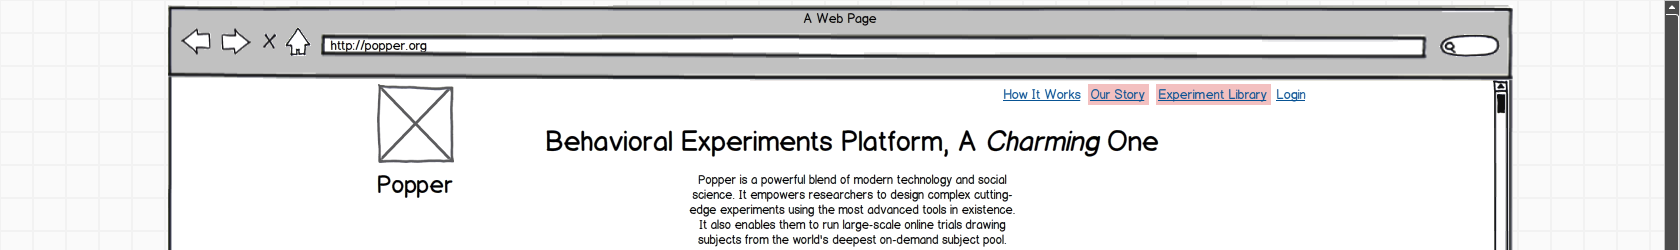
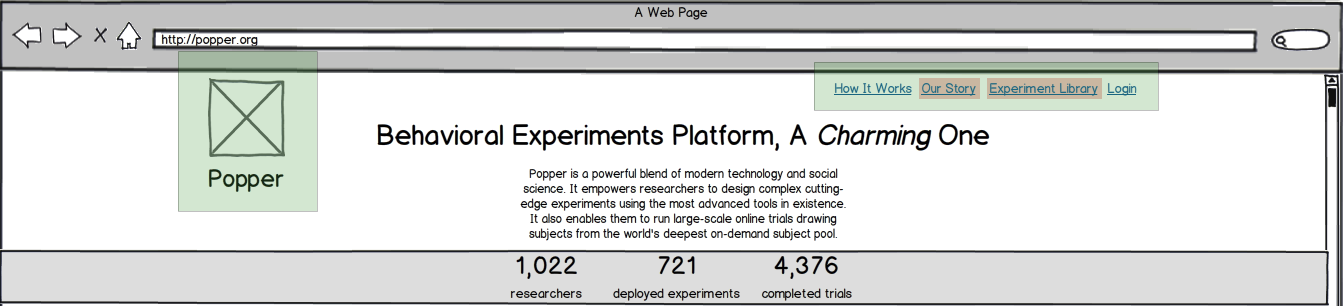
log in and sign up diagram

diff --git a/popper_functional_specs.md b/popper_functional_specs.md
@@ -44,43 +44,54 @@ The overall look of the **Landing Page** should be classic yet modern. Since the
 
 The **Landing Page** consists of six components: 
 
-1. The Header
-2. The Hook
-3. Statistics
-4. The Features List
-5. Sign Up
+1. Header (including Accounts)
+2. Features
+3. Sign Up
+4. Footer
 
-###1. The Header
+###1. Header
 
-The Header contains the Popper Logo and the Navigation Bar. 
+The Header contains the Logo, Navigation Bar (where we will cover user Accounts), Overview, and Usage Statistics. 
 
 ![Image](https://github.com/liscovich/functional-specs/blob/master/images/header.png?raw=true)
 
 ####Popper Logo
 
-The Popper Logo contains the name "Popper" accompanying a stylized likeness of Karl Popper, the philosopher after whom the product is named. The ideal portrait for this logo is available [here](http://en.wikipedia.org/wiki/File:Karl_Popper.jpg) in the public domain from Wiki Commons. 
+![Image](https://github.com/liscovich/functional-specs/blob/master/images/lplogo.png?raw=true)
 
-![Image](http://upload.wikimedia.org/wikipedia/commons/4/43/Karl_Popper.jpg)
+The Popper Logo contains the name "Popper" accompanying a stylized likeness of the philosopher Karl Popper. The ideal portrait for this logo is available [here](http://en.wikipedia.org/wiki/File:Karl_Popper.jpg) in the public domain from Wiki Commons. 
 
-We would like to include Karl Popper's likeness to emphasize that the name "Popper" does not refer to drugs or the action of "popping". The logo should be designed to stand out well against both the light background of the Researcher Website and the dark background of Unity3D, a core component of the Popper SDK. 
+<center>
+	<IMG SRC="http://upload.wikimedia.org/wikipedia/commons/4/43/Karl_Popper.jpg" WIDTH="10%" ALT="POPPER_PHOTO" BORDER="2.5">
+	</center>
+
+We would like to include Karl Popper's likeness to clarify the origin of the name "Popper" and dissociate the name from drugs or the action of "popping". The logo should be designed to stand out well against both the light background of the Researcher Website and the dark background of Unity3D, a core component of the Popper SDK. 
 
 The font of the logo should be classical and convey both authority and legitimacy, much like the logos of universities and research software.
 
-![Image](http://upload.wikimedia.org/wikipedia/commons/9/99/Harvard_University_Logo.PNG)
+<center>
+	![Image](http://upload.wikimedia.org/wikipedia/commons/9/99/Harvard_University_Logo.PNG)
+</center>
 
-![Image](http://www.dartmouth.edu/home/files/graphics/dartmouth.gif)
+<center>
+	![Image](http://www.dartmouth.edu/home/files/graphics/dartmouth.gif)
+</center>
 
-![Image](http://www.utexas.edu/sites/all/themes/webcentral/_images/ribbon.png)
+<center>
+	![Image](http://www.utexas.edu/sites/all/themes/webcentral/_images/ribbon.png)
+</center>
 
-![Image](http://www.wolframalpha.com/images/homepage/wa-logo.png)
+<center>
+	![Image](http://www.wolframalpha.com/images/homepage/wa-logo.png)
+</center>
 
 Finally, the logo should have a corresponding smaller "minilogo" that appears in the title bar of web browsers. This minilogo should most likely be a "P" that corresponds stylistically with the Popper logo.
 
-When a user is not signed in, clicking on the Popper Logo brings the user to [www.popper.org](www.popper.org). Once the user signs in, clicking on the Popper Logo brings the user to the **Researcher Dashboard**, which will be discussed later.
+When a user is not signed in, clicking on the Popper Logo brings the user to the landing page at [www.popper.org](www.popper.org). Once the user signs in, clicking on the Popper Logo brings the user to the **Researcher Dashboard**, which will be discussed later.
 
 ####Navigation Bar
 
-![Image](https://github.com/liscovich/functional-specs/blob/master/images/header.png?raw=true)
+![Image](https://github.com/liscovich/functional-specs/blob/master/images/lpnav.png?raw=true)
 
 The Navigation Bar in the Header includes four links: 
 
@@ -93,19 +104,46 @@ The Navigation Bar in the Header includes four links:
 
 [2] **Our Story** is a static About page. Its contents will be discussed later.
 
-[3] **Experiment Library** is a dynamic page on the Popper Research Site that allows researchers to browse experiments, and will be discussed later.  
+[3] **Experiment Library** is a dynamic page on the Popper Research Site that allows researchers to browse experiments, and will be discussed later.
 
-[4] Users sign in with their GitHub account to use Popper. *Log in* takes the user to GitHub, where they can sign in and authorize GitHub access to their Popper account. This same functionality can be seen on [laravel.com](laravel.com). When a user logs in to laravel.com, she is taken straight to the following GitHub log in page. 
+[4] User log in and sign up will be described in the "Accounts" section below. 
 
-![Image](https://github.com/liscovich/functional-specs/blob/master/images/lsignin.png?raw=true)
+####Accounts
 
-![Image](https://github.com/liscovich/functional-specs/blob/master/images/githubsignin.png?raw=true)
+The diagram below explains the log in and sign up processes. I will describe specific steps after the diagram.
 
-After clicking Sign In, the user is taken to an authorization screen to grant Popper access to the user's public and private repositories on GitHub. This authorization is necessary to display the user's experiments on the **Experiments** page. To run a trial, the experiment must be visible in **Experiments**. Public repositories are thus also public in **Experiments** and can be accessed by any researcher. Experiments from private repositories are only visible to researchers who are signed into Popper with that GitHub account. 
+![Image](https://github.com/liscovich/functional-specs/blob/master/images/accounts.png?raw=true)
+
+
+
+I. **Logged into GitHub?** When the user clicks "Log in", Popper checks whether the user is already logged into GitHub.
+	1. **Verified email address?** If the user is already logged into GitHub, Popper checks whether this GitHub account is linked with a verified email address in the Popper database. A verified email address is necessary to maintain the quality of user accounts in the Popper database. 
+		a. If a verified email address is linked with the GitHub account, Popper checks whether the user has entered additional credentials on the Popper website.
+			i. **BINGO!** If the user has entered additional credentials, this means that the user has a fully completed, fully validated account, and the user is taken straight to the **Dashboard**.
+			ii. **Additional credentials** If the user has not previously entered additional credentials, this means that the user does not have a fully completed account, and the user is taken to the Sign Up page. This page is discussed later in the Functional Specs. After the user has completed the Sign Up process, the user is taken to the **Researcher Dashboard**
+
+
+	entered additional credentials on the Popper website.
+		-If the user has already entered additional credentials on the Popper website, the user is taken straight to the **Dashboard**.
+		-If the user has not yet entered additional credentials on the Popper website, the user is taken to an authorization page that asks the user to grant Popper access to public and private information from the user's GitHub account. Once the user clicks "Allow", the user is redirected to the **Dashboard**.
 
 ![Image](https://github.com/liscovich/functional-specs/blob/master/images/popperauth.png?raw=true)
 
-After GitHub access authorization, the user is taken back to the Laravel. In our case, we would want the user to be taken back to the Landing Page, or whichever page the user was on immediately prior to signup. 
+	-If the user is not yet logged into GitHub, Popper 
+
+*Log in* takes the user to GitHub, where they can sign in and authorize GitHub access to their Popper account. This same functionality can be seen on [laravel.com](laravel.com). When a user clicks "log in" on Laravel, the user is taken straight to the following GitHub log in page. What happens next depends on whether the user has a Popper account. 
+
+
+
+![Image](https://github.com/liscovich/functional-specs/blob/master/images/githubsignin.png?raw=true)
+
+After signing in on this GitHub page, the user is taken to an authorization screen to grant Popper access to the user's public and private repositories on GitHub.  
+
+
+
+This authorization is necessary to display the user's experiments on the **Experiments Library** page. To run a trial, the experiment must be visible in **Experiments Library**. Public repositories are thus also public in **Experiments Library** and can be accessed by any researcher. Experiments from private repositories are only visible to researchers who are signed into Popper with that GitHub account.
+
+After GitHub access authorization, the user is taken to a taken back to the Landing Page, or whichever page the user was on when the user clicked "log in". 
 
 ![Image](https://github.com/liscovich/functional-specs/blob/master/images/lsignedin.png?raw=true)
 
@@ -113,9 +151,7 @@ In this way, all authentication, forgotten password handling, and user account c
 
 ###2. The Hook
 
-
-
-The purpose of the Hook is to describe to the user, briefly, exactly what Popper is. We anticipate that initially, most users who come to www.popper.org will know little to nothing about Popper. The most that users might know is that Popper is a tool that lets social scientists run experiments.
+The purpose of the Hook is to describe to the user, briefly, exactly what Popper is. We anticipate that initially, most users who come to www.popper.org will know little to nothing about Popper. The most that users might know is that Popper is a tool that lets social scientists run experiments.	
 
 The header of the **Landing Page** is "Behavioral Experiments Platform, [*a(n) adjective*] one". We would like to replace the [*a(n) adjective*] with a revolving list of words, both serious and funny. This header is meant to add character and likeability to the Researcher Site. In terms of execution, we are unsure whether it would be more pleasant from a UX perspective to have the words automatically refresh every few seconds or if it would be better for the user to click a small "refresh" icon next to the [*adjective*] to make the word change.
 
